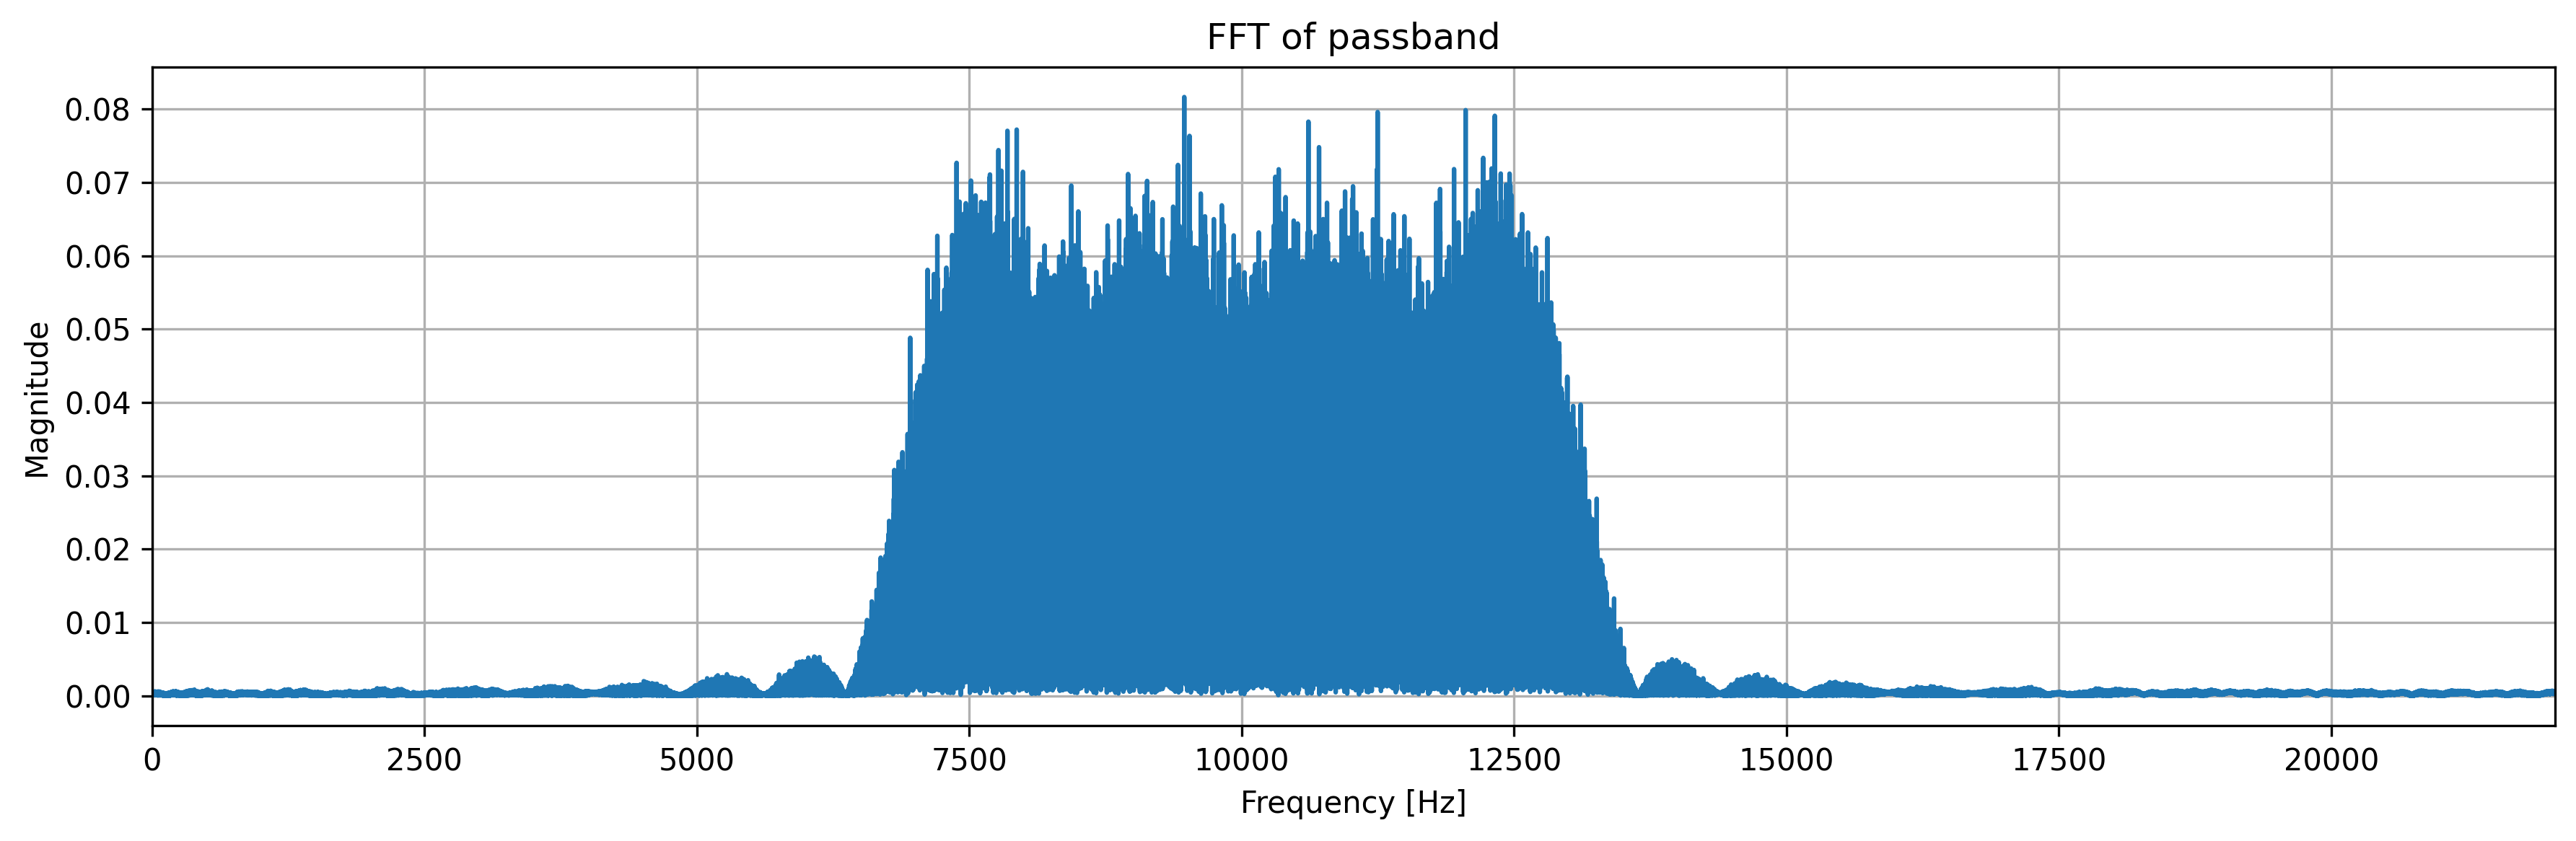
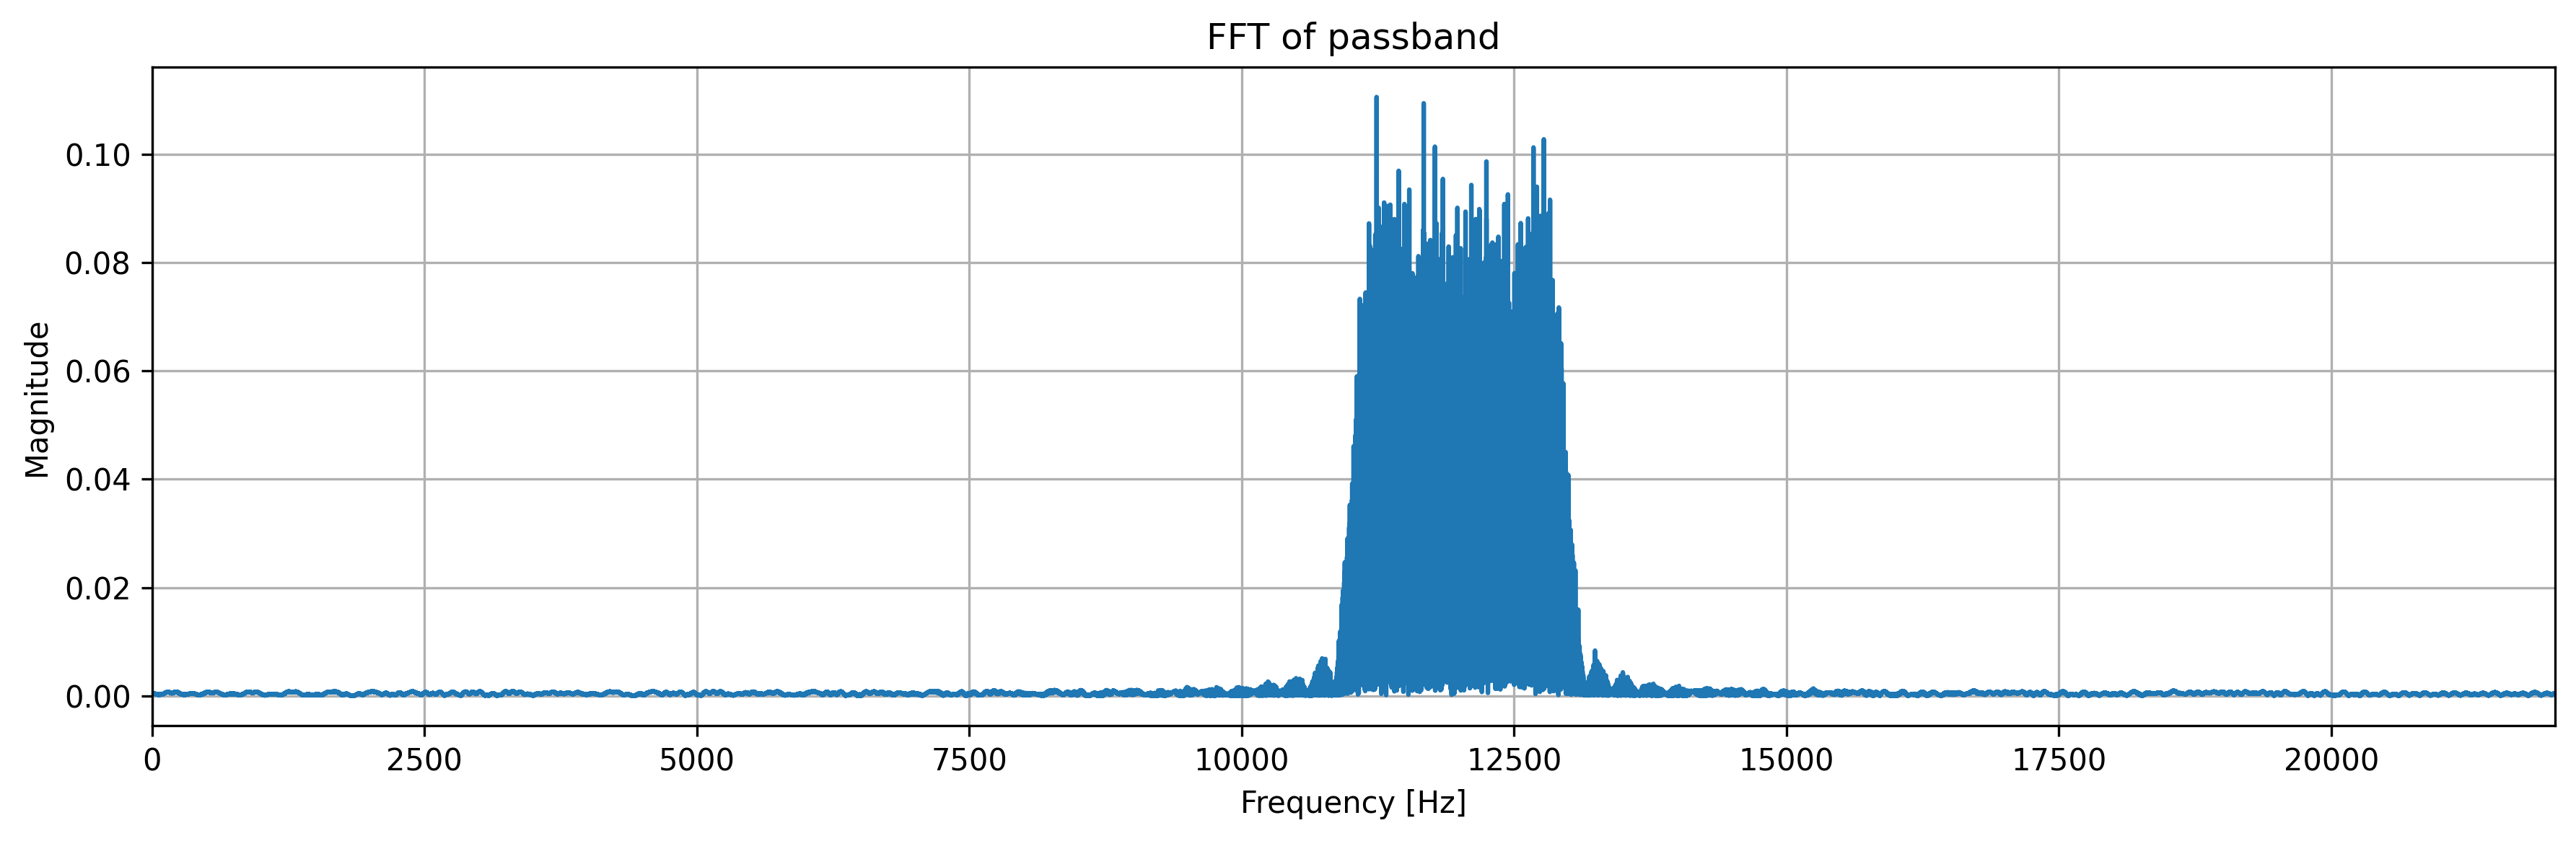
Toshith: made changes and added a recording of the 16 QAM

diff --git a/notebooks/config.py b/notebooks/config.py
@@ -1,7 +1,7 @@
 import numpy as np
 FS = 44100            # Sample rate (Hz)
-F_CARRIER = 10000  
-SYMBOL_RATE = 6300  # Symbols per second (Baud)
+F_CARRIER = 12000  
+SYMBOL_RATE = 2000  # Symbols per second (Baud)
 
 # Calculate how many audio samples represent one symbol
 # 44100 Hz / 8820 Baud = 5 samples per symbol
@@ -9,11 +9,11 @@ SYMBOL_RATE = 6300  # Symbols per second (Baud)
 # 44100 Hz / 6300 Baud = 7 samples per symbol
 SAMPLES_PER_SYMBOL = FS // SYMBOL_RATE
 
-M=4 #M value for M qam, Mpam etc. Set M=2 for BPSK.
-total_symbols=50000
+M=4 #M value for M qam, Mpam etc
+total_symbols=10000
 
 #zadoff chu
-len_zadoff_chu = 353
+len_zadoff_chu = 839
 u_zadoff_chu = 7
 
 #METHODS